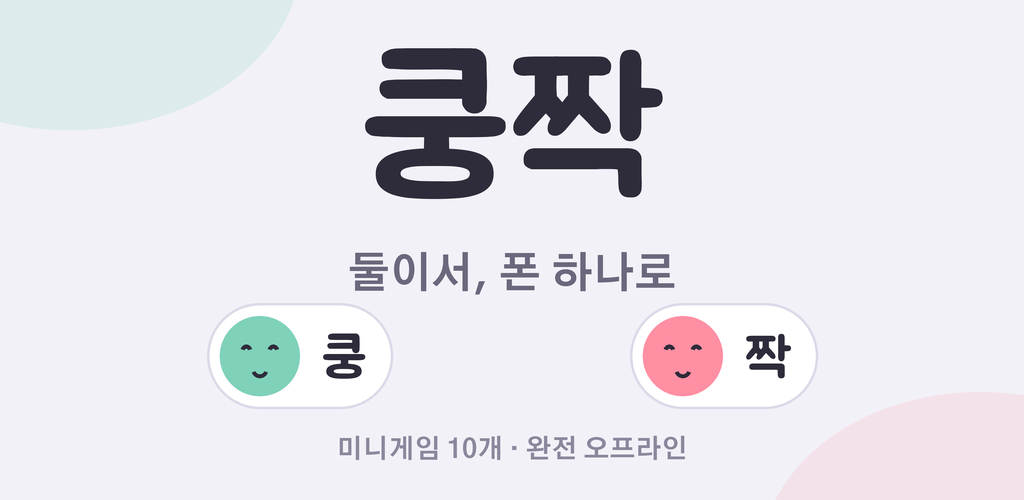
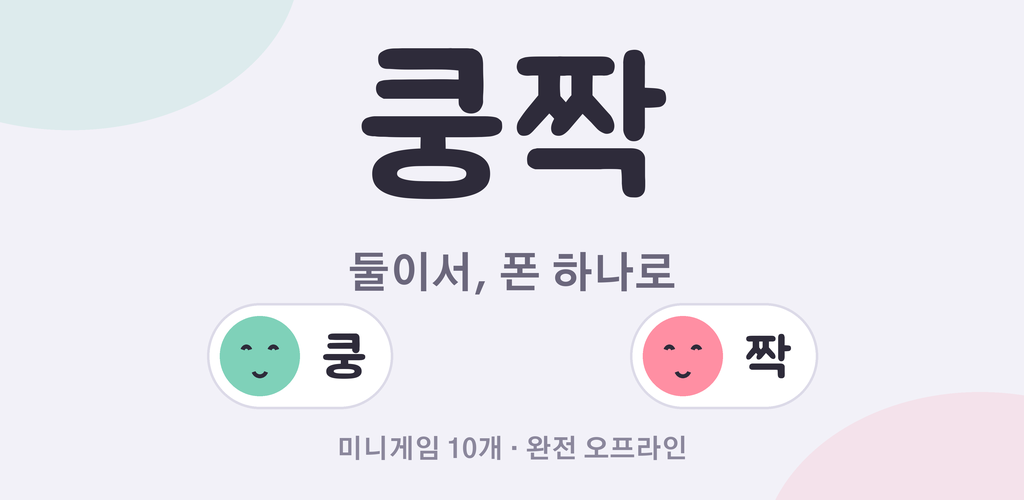
로고 자간을 벌리고 랜덤 카드에 무지개 테두리를 넣었다
「쿵짝」 이 letter-spacing:-2px 로 붙어 있었다. 두 글자뿐이라 한 덩어리로
뭉쳐 보여서 5px 로 벌렸다. 2px 로는 눈으로 구별이 안 됐다 — 안 고친 것과
같으니 실기기에서 보고 다시 키웠다.

피처그래픽의 「쿵짝」 도 같은 비율로 맞췄다(52px에 5px ⇒ 180px에 17px).
앱 안 로고와 스토어 대문 로고가 달라 보이면 안 된다. PIL 에 자간 기능이
없어 글자를 하나씩 그리는 코드를 넣었다.

랜덤 카드는 노란 실선이었는데 무지개빛이 한 바퀴 도는 테두리로 바꿨다.
«고르지 않기» 라는 것이 목록에서 바로 보여야 한다.

⚠ 갤럭시 S8 웹뷰 72 에는 `inset` 단축 속성도 `@property` 도 없다. 그래서
top/right/bottom/left 를 따로 적고, 각도를 애니메이션하는 대신 요소 자체를
rotate 시킨다. conic-gradient 를 못 읽는 브라우저에는 앞줄의 노란색이
그대로 남는다. 실기기(S8)에서 실제로 그려지는 것을 확인했다.

Claude-Session: https://claude.ai/code/session_019KHMRrrLJNGdJttQai1cWp

diff --git a/web/index.html b/web/index.html
@@ -60,7 +60,8 @@ body{
 
 /* ---------- 메뉴 ---------- */
 #menu{padding:5vh 24px 24px;align-items:center;gap:22px;overflow-y:auto}
-.logo{font-family:var(--display);font-size:52px;letter-spacing:-2px}
+/* 두 글자뿐이라 붙이면 한 덩어리로 뭉쳐 보인다. 살짝 띄워 「쿵」「짝」이 각각 읽히게 한다. */
+.logo{font-family:var(--display);font-size:52px;letter-spacing:5px}
 .logo small{display:block;font-family:var(--body);font-size:13px;font-weight:400;
   letter-spacing:1px;opacity:.55;margin-top:6px}
 .gamelist{width:100%;max-width:420px;display:flex;flex-direction:column;gap:12px}
@@ -80,7 +81,34 @@ body{
 }
 /* 랜덤 카드 — 게임 하나가 아니라 «고르지 않기» 라 목록과 살짝 떼어 놓는다.
    난이도 점이 없는 것도 일부러다(게임마다 달라서 하나로 못 적는다). */
-.gamecard.rand{box-shadow:0 2px 0 var(--mute), inset 0 0 0 2px var(--go)}
+/* 무지개빛이 한 바퀴 도는 테두리. «고르지 않기» 라는 것이 목록에서 바로 보여야 한다.
+   ⚠ 갤럭시 S8 웹뷰 72 에서도 돌아야 한다 — 그 버전에는 `inset` 단축 속성도
+   `@property` 도 없다. 그래서 top/right/bottom/left 를 따로 적고, 각도를
+   애니메이션하는 대신 요소 자체를 rotate 시킨다.
+   conic-gradient 를 못 읽는 브라우저에는 앞줄의 노란색이 그대로 남는다. */
+.gamecard.rand{position:relative;z-index:0;overflow:hidden;background:transparent}
+.gamecard.rand::before{
+  content:'';position:absolute;z-index:-2;
+  top:50%;left:50%;width:132%;height:0;padding-bottom:132%;
+  transform:translate(-50%,-50%);
+  background:var(--go);
+  background:conic-gradient(
+    #7FD1B9, #A8E6CF, #FFF7D6, #FFD166, #FF8FA3,
+    #F3C6F1, #D6A6E8, #9AC8F5, #CFF3E8, #FFFFFF 93%, #7FD1B9);
+  animation:randspin 4.5s linear infinite;
+}
+/* 가운데를 흰색으로 덮어 가장자리 3px 만 남긴다 = 테두리 */
+.gamecard.rand::after{
+  content:'';position:absolute;z-index:-1;
+  top:3px;right:3px;bottom:3px;left:3px;
+  border-radius:19px;background:#fff;
+}
+@keyframes randspin{
+  from{transform:translate(-50%,-50%) rotate(0deg)}
+  to  {transform:translate(-50%,-50%) rotate(360deg)}
+}
+/* 움직임을 줄여 달라고 설정한 사람에게는 돌리지 않는다 */
+@media (prefers-reduced-motion:reduce){.gamecard.rand::before{animation:none}}
 .gamecard.rand + .gamecard{margin-top:4px}
 /* 난이도는 게임 이름 옆에 붙인다. 오른쪽 끝에 두면 설명 줄의 폭을 뺏어
    "노란불이 켜지면 먼저 탭하세요" 가 두 줄로 넘어간다(360px 폰에서 확인). */

diff --git a/web/sw.js b/web/sw.js
@@ -1,6 +1,6 @@
 /* 쿵짝 서비스워커 — 오프라인 지원.
    게임 파일을 바꾸면 CACHE 버전을 올려야 새 파일이 적용된다. */
-const CACHE = 'kungjjak-v13';  /* 게임 6 이름 오락가락 */
+const CACHE = 'kungjjak-v18';  /* 아이콘 꽉 참 */
 const ASSETS = [
   './', './index.html', './manifest.json',
   './icons/icon-192.png', './icons/icon-512.png',

diff --git a/tools/make_feature_graphic.py b/tools/make_feature_graphic.py
@@ -80,11 +80,22 @@ def build():
         d.text(((x0 + 13 + 2 * r + 22) * S - l, cy * S - t - th * S / 2),
                name, font=f_name, fill=INK)
 
-    def center(txt, font, top, fill):
+    def center(txt, font, top, fill, track=0):
+        """track = 자간(px, S 곱하기 전). PIL 에는 자간 기능이 없어 글자를 하나씩 그린다."""
         l, t, rr, b = d.textbbox((0, 0), txt, font=font)
-        d.text(((W * S - (rr - l)) / 2 - l, top * S - t), txt, font=font, fill=fill)
+        if not track:
+            d.text(((W * S - (rr - l)) / 2 - l, top * S - t), txt, font=font, fill=fill)
+            return
+        gap = track * S
+        adv = [font.getlength(c) for c in txt]
+        x = (W * S - (sum(adv) + gap * (len(txt) - 1))) / 2
+        for c, a in zip(txt, adv):
+            d.text((x, top * S - t), c, font=font, fill=fill)
+            x += a + gap
 
-    center('쿵짝', ImageFont.truetype(jua, 180 * S), 48, INK)
+    # 자간은 웹 로고(.logo)와 같은 비율로 맞춘다 — 52px 에 2px ⇒ 180px 에 7px.
+    # 앱 안과 스토어 대문의 로고가 달라 보이면 안 된다.
+    center('쿵짝', ImageFont.truetype(jua, 180 * S), 48, INK, track=7)
     center('둘이서, 폰 하나로', ImageFont.truetype(g1b, 42 * S), 252, SUB)
 
     pill(300, 356, MINT, '쿵')
